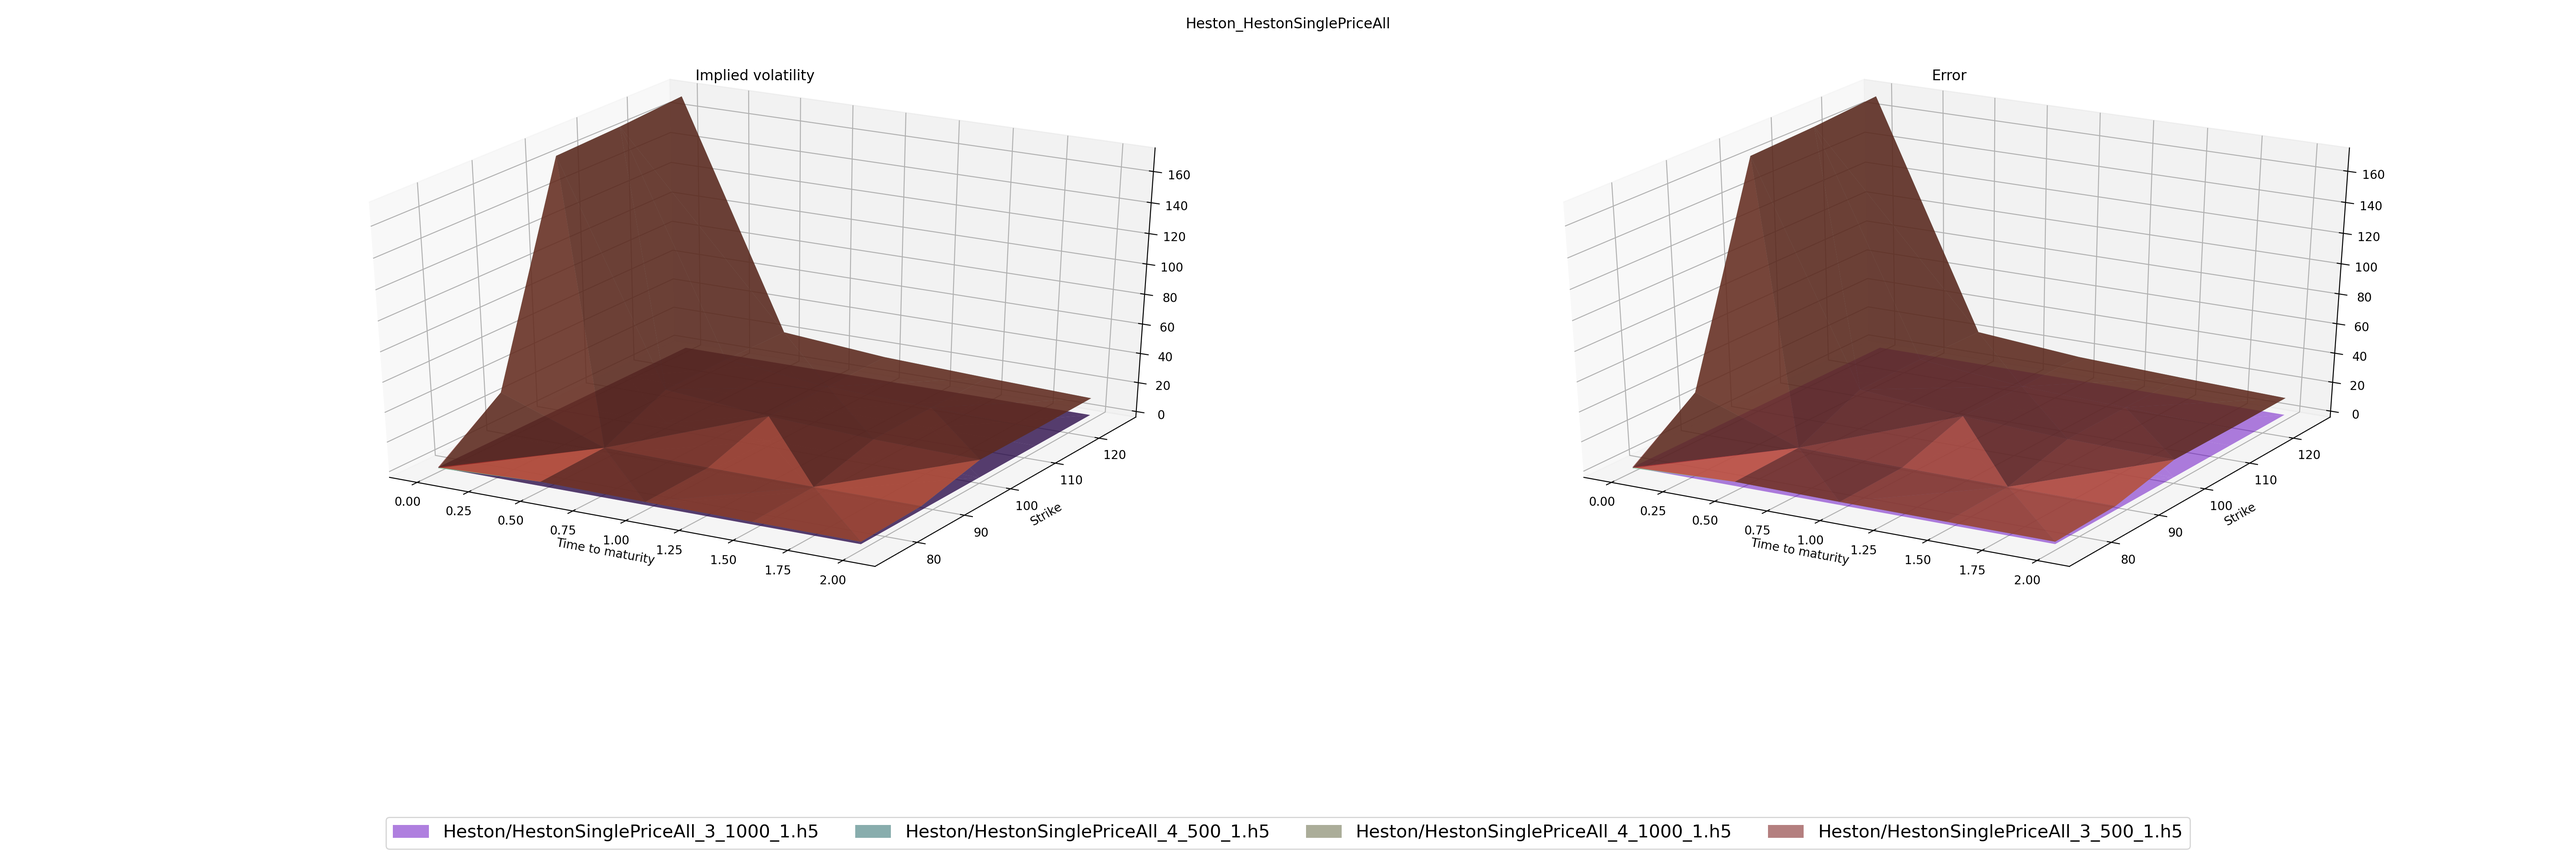
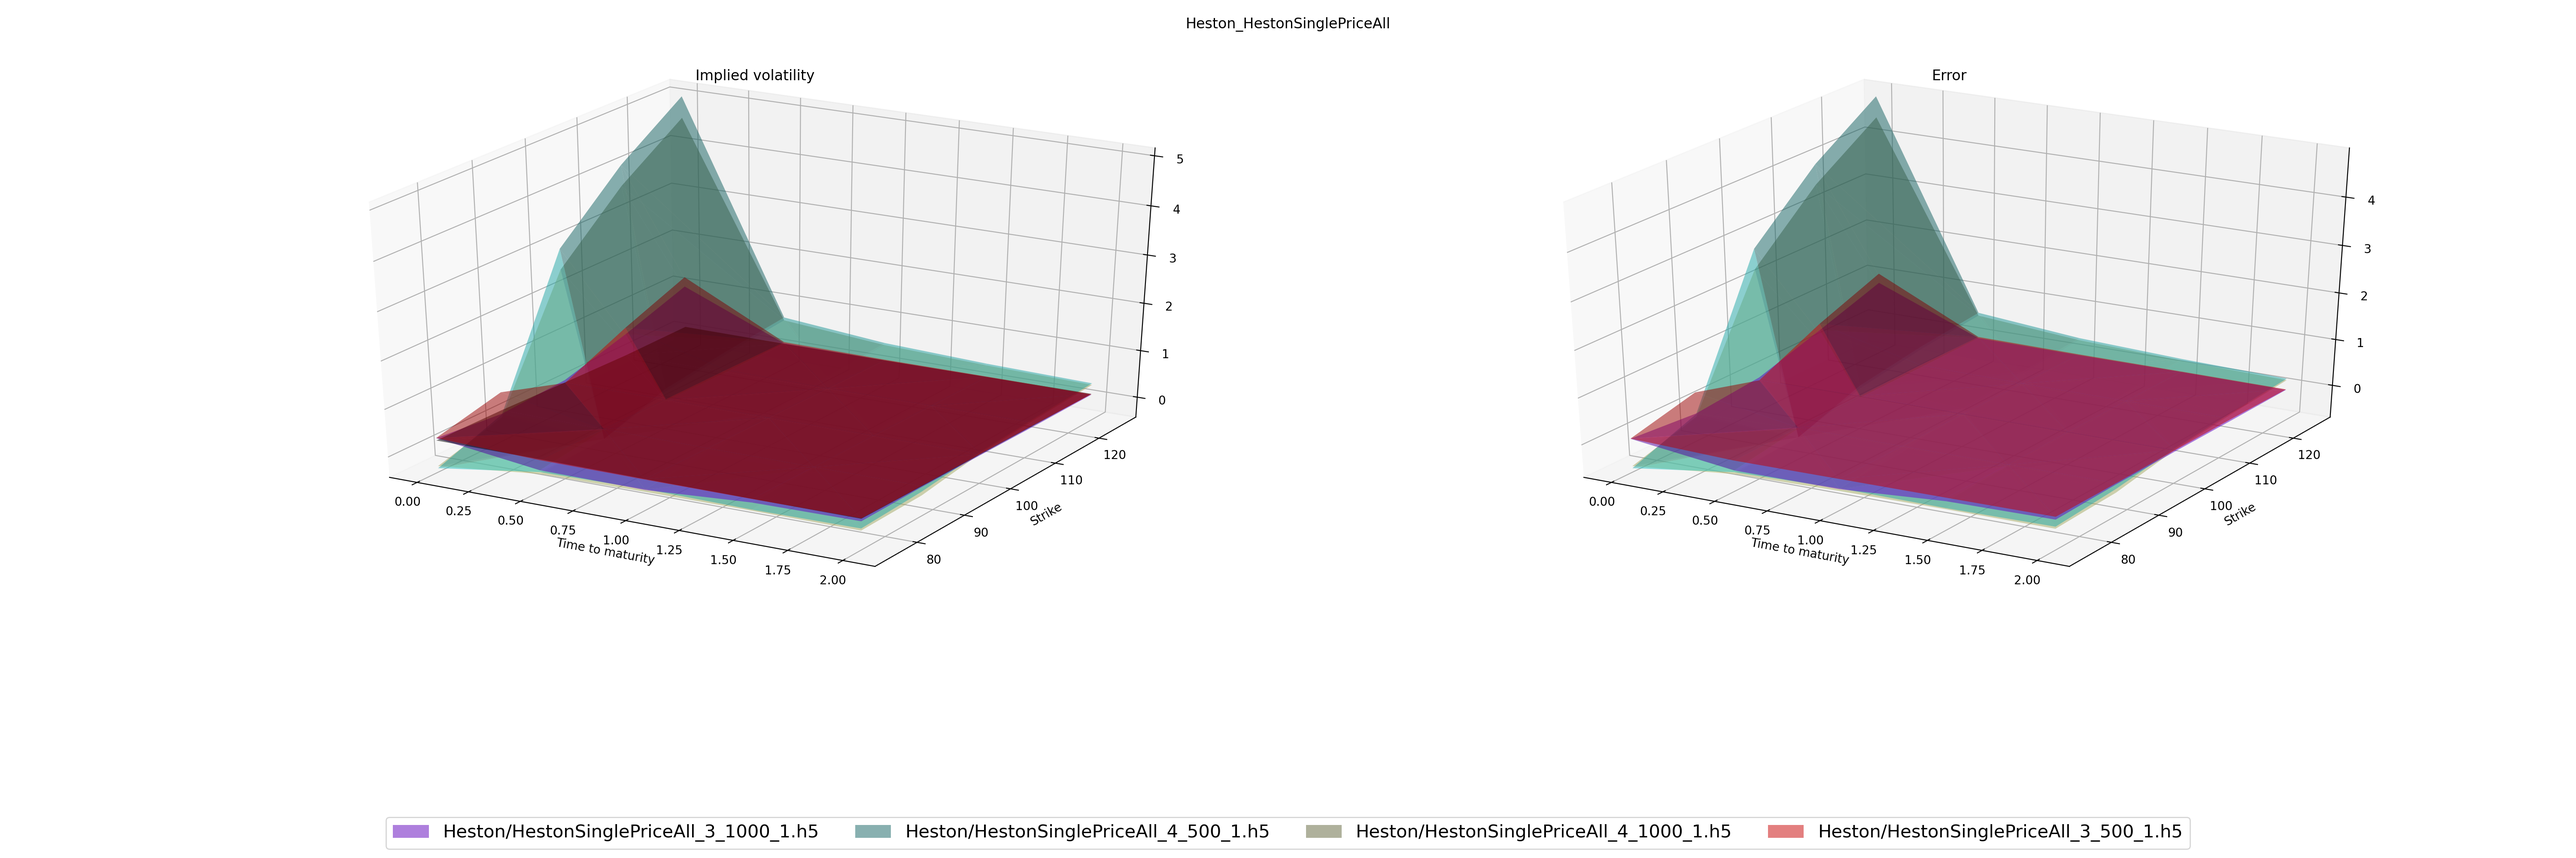
Sobol changes

Changed region(s): [[0.1558, 0.093, 0.4363, 0.651], [0.6233, 0.124, 0.9038, 0.651], [0.6857, 0.961, 0.7168, 0.992]]

diff --git a/Thesis/Heston/ServerModelGenerator.py b/Thesis/Heston/ServerModelGenerator.py
@@ -15,28 +15,38 @@ from sklearn.model_selection import train_test_split
 from Thesis.Heston import NNModelGenerator as mg
 from Thesis.Heston import DataGeneration as dg
 
+### Wide model
+model_wide = dg.model_input_generator()
+
+### Sobol, narrow
 model_sobol_input_100000 = np.loadtxt("Data/hestonSobolGridInput_100000.csv", delimiter = ",")
 model_sobol_input_200000 = np.loadtxt("Data/hestonSobolGridInput_200000.csv", delimiter = ",")
 model_sobol_input_312500 = np.loadtxt("Data/hestonSobolGridInput_312500.csv", delimiter = ",")
-model_sobol2_input_100000= np.loadtxt("Data/hestonSobolGridInput2_100000.csv", delimiter = ",")
-model_sobol2_input_200000= np.loadtxt("Data/hestonSobolGridInput2_200000.csv", delimiter = ",")
-model_sobol2_input_312500 = np.loadtxt("Data/hestonSobolGridInput2_312500.csv", delimiter = ",")
-
-grid_price_output = np.loadtxt("Data/hestonGridPrice.csv", delimiter = ",")
-grid_imp_vol_output = np.loadtxt("Data/hestonGridImpVol.csv", delimiter = ",")
 sobol_price_100000 = np.loadtxt("Data/hestonSobolGridPrice_100000.csv", delimiter = ",")
 sobol_price_200000 = np.loadtxt("Data/hestonSobolGridPrice_200000.csv", delimiter = ",")
 sobol_price_312500 = np.loadtxt("Data/hestonSobolGridPrice_312500.csv", delimiter = ",")
+sobol_imp_vol_100000 = np.loadtxt("Data/hestonSobolGridImpVol_100000.csv", delimiter = ",")
+sobol_imp_vol_200000 = np.loadtxt("Data/hestonSobolGridImpVol_200000.csv", delimiter = ",")
+sobol_imp_vol_312500 = np.loadtxt("Data/hestonSobolGridImpVol_312500.csv", delimiter = ",")
+
+
+### Sobol, wider
+model_sobol2_input_100000= np.loadtxt("Data/hestonSobolGridInput2_100000.csv", delimiter = ",")
+model_sobol2_input_200000= np.loadtxt("Data/hestonSobolGridInput2_200000.csv", delimiter = ",")
+model_sobol2_input_312500 = np.loadtxt("Data/hestonSobolGridInput2_312500.csv", delimiter = ",")
 sobol2_price_100000 = np.loadtxt("Data/hestonSobolGridPrice2_100000.csv", delimiter = ",")
 sobol2_price_200000 = np.loadtxt("Data/hestonSobolGridPrice2_200000.csv", delimiter = ",")
 sobol2_price_312500 = np.loadtxt("Data/hestonSobolGridPrice2_312500.csv", delimiter = ",")
-sobol_imp_vol_100000 = np.loadtxt("Data/hestonSobolGridImpVol_100000.csv", delimiter = ",")
 sobol2_imp_vol_100000 = np.loadtxt("Data/hestonSobolGridImpVol2_100000.csv", delimiter = ",")
-sobol_imp_vol_200000 = np.loadtxt("Data/hestonSobolGridImpVol_200000.csv", delimiter = ",")
 sobol2_imp_vol_200000 = np.loadtxt("Data/hestonSobolGridImpVol2_200000.csv", delimiter = ",")
-sobol_imp_vol_312500 = np.loadtxt("Data/hestonSobolGridImpVol_312500.csv", delimiter = ",")
 sobol2_imp_vol_312500 = np.loadtxt("Data/hestonSobolGridImpVol2_312500.csv", delimiter = ",")
 
+### First model
+model_old = dg.model_input_generator_old()
+grid_price_output = np.loadtxt("Data/hestonGridPrice.csv", delimiter = ",")
+grid_imp_vol_output = np.loadtxt("Data/hestonGridImpVol.csv", delimiter = ",")
+
+### Single prices on sobol2 312500
 model_input = model_sobol2_input_312500
 option_input = dg.option_input_generator()
 
@@ -55,7 +65,7 @@ for i in range(np.shape(model_input)[0]):
 
 sobol2_single_price_output = sobol2_single_price_output.flatten()
 sobol2_single_imp_vol_output = sobol2_single_imp_vol_output.flatten()
-model_input = dg.model_input_generator() #faster than reading file
+model_input = dg.model_input_generator_old() #faster than reading file
 
 
 # Grid filtering, rows with 0 in
@@ -239,21 +249,21 @@ normalize_set = [
 """
 
 sobol2_set = [
-    [sobol2_imp_vol_312_input, sobol2_imp_vol_312_output, 3, 100, "Sobol2_grid_imp_vol_312_3_100", False, "normal", "normalize"],
-    [sobol2_imp_vol_312_input, sobol2_imp_vol_312_output, 3, 1000, "Sobol2_grid_imp_vol_312_3_1000", False, "normal", "normalize"],
-    [sobol2_imp_vol_312_input, sobol2_imp_vol_312_output, 4, 100, "Sobol2_grid_imp_vol_312_4_100", False, "normal", "normalize"],
-    [sobol2_imp_vol_312_input, sobol2_imp_vol_312_output, 4, 1000, "Sobol2_grid_imp_vol_312_4_1000", False, "normal", "normalize"],
-    [sobol2_imp_vol_312_input, sobol2_imp_vol_312_output, 5, 100, "Sobol2_grid_imp_vol_312_5_100", False, "normal", "normalize"],
-    [sobol2_imp_vol_312_input, sobol2_imp_vol_312_output, 5, 1000, "Sobol2_grid_imp_vol_312_5_1000", False, "normal", "normalize"],
-    [sobol2_imp_vol_100_input, sobol2_imp_vol_100_output, 4, 100, "Sobol2_grid_imp_vol_100_4_100", False, "normal", "normalize"],
-    [sobol2_imp_vol_100_input, sobol2_imp_vol_100_output, 4, 1000, "Sobol2_grid_imp_vol_100_4_1000", False, "normal", "normalize"],
+    [filtered_grid_model_imp_vol, filtered_grid_imp_vol, 3, 500, "HestonGridImpVolFilter_3_500", False, "normal", "normalize"],
+    [filtered_grid_model_imp_vol, filtered_grid_imp_vol, 3, 1000, "HestonGridImpVolFilter_3_1000", False, "normal", "normalize"],
+    [filtered_grid_model_imp_vol, filtered_grid_imp_vol, 4, 500, "HestonGridImpVolFilter_4_500", False, "normal", "normalize"],
+    [filtered_grid_model_imp_vol, filtered_grid_imp_vol, 4, 1000, "HestonGridImpVolFilter_4_1000", False, "normal", "normalize"],
+    [filtered_grid_model_imp_vol, filtered_grid_imp_vol, 3, 500, "HestonGridImpVolFilter_3_500", False, "tanh", "normalize"],
+    [filtered_grid_model_imp_vol, filtered_grid_imp_vol, 3, 1000, "HestonGridImpVolFilter_3_1000", False, "tanh", "normalize"],
+    [filtered_grid_model_imp_vol, filtered_grid_imp_vol, 4, 500, "HestonGridImpVolFilter_4_500", False, "tanh", "normalize"],
+    [filtered_grid_model_imp_vol, filtered_grid_imp_vol, 4, 1000, "HestonGridImpVolFilter_4_1000", False, "tanh", "normalize"],
+    [filtered_grid_model_imp_vol, filtered_grid_imp_vol, 3, 500, "HestonGridImpVolFilter_3_500", False, "mix", "normalize"],
+    [filtered_grid_model_imp_vol, filtered_grid_imp_vol, 3, 1000, "HestonGridImpVolFilter_3_1000", False, "mix", "normalize"],
+    [filtered_grid_model_imp_vol, filtered_grid_imp_vol, 4, 500, "HestonGridImpVolFilter_4_500", False, "mix", "normalize"],
+    [filtered_grid_model_imp_vol, filtered_grid_imp_vol, 4, 1000, "HestonGridImpVolFilter_4_1000", False, "mix", "normalize"],
 ]
 
 wide_set = [
-    [sobol2_price_312_input, sobol2_price_312_output, 3, 100, "Sobol2_grid_price_312_3_100", True, "normal", "standardize"],
-    [sobol2_price_312_input, sobol2_price_312_output, 4, 100, "Sobol2_grid_price_312_4_100", True, "normal", "standardize"],
-    [sobol2_price_312_input, sobol2_price_312_output, 5, 100, "Sobol2_grid_price_312_5_100", True, "normal", "standardize"],
-    [sobol2_price_312_input, sobol2_price_312_output, 3, 500, "Sobol2_grid_price_312_3_500", True, "normal", "standardize"],
     [sobol2_price_312_input, sobol2_price_312_output, 4, 500, "Sobol2_grid_price_312_4_500", True, "normal", "standardize"],
     [sobol2_price_312_input, sobol2_price_312_output, 5, 500, "Sobol2_grid_price_312_5_500", True, "normal", "standardize"]
 ]
@@ -280,11 +290,11 @@ pool = Pool(cpu_cores)
 #res_sobol_tanh = pool.starmap(mg.NNModel, tanh_set)
 res_sobol2 = pool.starmap(mg.NNModel, wide_set)
 print(res_sobol2)
-print("Starting single sets")
-res_single = pool.starmap(mg.NNModel, single_price_set)
+#print("Starting single sets")
+#res_single = pool.starmap(mg.NNModel, single_price_set)
 
 #res_price_grid = pool.starmap(mg.NNModel, paral_price_grid)
 #res_single = pool.starmap(mg.NNModel, paral_single)
 #print(res_sobol_mix)
 #print(res_sobol_tanh)
-print(res_single)
+#print(res_single)

diff --git a/Thesis/Heston/ModelTesting.py b/Thesis/Heston/ModelTesting.py
@@ -52,7 +52,7 @@ def find_nth_back(input_string : str, keyword : str, n : int):
         n -= 1
     return start
 
-models = glob.glob("Models2/Heston*/*.h5")
+models = glob.glob("Models/Heston*/*.h5")
 
 group_by_list = []
 for some_model in models:
@@ -90,7 +90,7 @@ def model_testing_plot(model_list : list, plot_group : str, some_input : np.ndar
             normal_out = True
 
         if (model_string.find("Single") != -1): # single output
-            predictions = np.empty(np.shape(option_input)[0])
+            predictions = np.zeros(np.shape(option_input)[0])
             for i in range(np.shape(option_input)[0]):
                 test_single_input = np.concatenate((some_input, option_input[i]), axis=None)
                 test_single_input = np.reshape(test_single_input, (1, -1))
@@ -106,10 +106,10 @@ def model_testing_plot(model_list : list, plot_group : str, some_input : np.ndar
 
         # if prices, calc imp vol
         if (model_string.find("Price") != -1 or model_string.find("price") != -1 ):
-            imp_vol_predictions = np.empty(np.shape(predictions))
+            imp_vol_predictions = np.zeros(np.shape(predictions))
             for i in range(np.shape(predictions)[0]):
                 imp_vol_predictions[i] = model_class.impVol(predictions[i], some_option_list[i])
-                predictions = imp_vol_predictions
+            predictions = imp_vol_predictions
         c = next(color)
 
         z = predictions
@@ -138,7 +138,7 @@ def model_testing_plot(model_list : list, plot_group : str, some_input : np.ndar
     fig.subplots_adjust(top=0.95, left=0.1, right=0.95, bottom=0.3)
     fig.legend(handles, labels, loc="lower center", ncol = 4, fontsize=15)
     fig.suptitle(plot_group[plot_group.find("/")+1:].replace("/", "_"))
-    plt.savefig("Plots2/"+plot_group[7:].replace("/", "_")+".png")
+    plt.savefig("Plots/"+plot_group[7:].replace("/", "_")+".png")
     plt.close()
     return mse_list
 
@@ -151,9 +151,9 @@ med_error_mse = []
 high_error_mse = []
 for model_list in mse_bar_list:
     for some_model in model_list:
-        if some_model[1] < 0.001:
+        if some_model[1] < 0.0002:
             low_error_mse.append(some_model)
-        elif some_model[1] < 0.5:
+        elif some_model[1] < 0.05:
             med_error_mse.append(some_model)
         else:
             high_error_mse.append(some_model)
@@ -171,7 +171,7 @@ def generate_bar_error(error_list : list, name : str):
     bar_fig.suptitle("MSE with benchmark, "+name)
     plt.tight_layout()
     bar_fig.subplots_adjust(top=0.95, bottom=0.1)
-    plt.savefig("Plots2/"+name+".png")
+    plt.savefig("Plots/"+name+".png")
     plt.close()
 
 generate_bar_error(low_error_mse, "low_error")

diff --git a/Thesis/Heston/DataGeneration.py b/Thesis/Heston/DataGeneration.py
@@ -59,6 +59,30 @@ def model_input_generator() -> np.ndarray:
 
     return np.array(list(itertools.product(forward, vol, kappa, theta, epsilon, rho, rate))) # model parameter combinations
 
+def model_input_generator_old() -> np.ndarray:
+    # Forward
+    forward = np.linspace(start = 50, stop = 150, num = 10)
+
+    # vol
+    vol = np.linspace(start = 0.01, stop = 0.2, num = 5)
+
+    # kappa
+    kappa = np.linspace(start = 0.1, stop = 2, num = 5)
+
+    # theta
+    theta = np.linspace(start = 0.01, stop = 0.2, num = 5)
+
+    # epsilon
+    epsilon = np.linspace(start = 0.1, stop = 2, num = 5)
+
+    # rho
+    rho = np.linspace(start = -0.99, stop = 0.99, num = 5)
+
+    # rate
+    rate = np.linspace(start = 0, stop = 0.2, num = 5)
+
+    return np.array(list(itertools.product(forward, vol, kappa, theta, epsilon, rho, rate))) # model parameter combinations
+
 def option_input_generator() -> np.ndarray:
     # Maturity
     maturity = np.linspace(start = 0.01, stop = 2, num = 5)

diff --git a/Thesis/Heston/Sobol.py b/Thesis/Heston/Sobol.py
@@ -66,6 +66,8 @@ def generate_sobol_input(no_sobol : int):
     return 0
 
 if __name__ == "__main__":
-    generate_sobol_input(100000)
-    generate_sobol_input(200000)
-    generate_sobol_input(312500)
+    #generate_sobol_input(100000)
+    #generate_sobol_input(200000)
+    #generate_sobol_input(312500)
+
+    generate_sobol_input(279936) # matching number of inputs for the wide model
